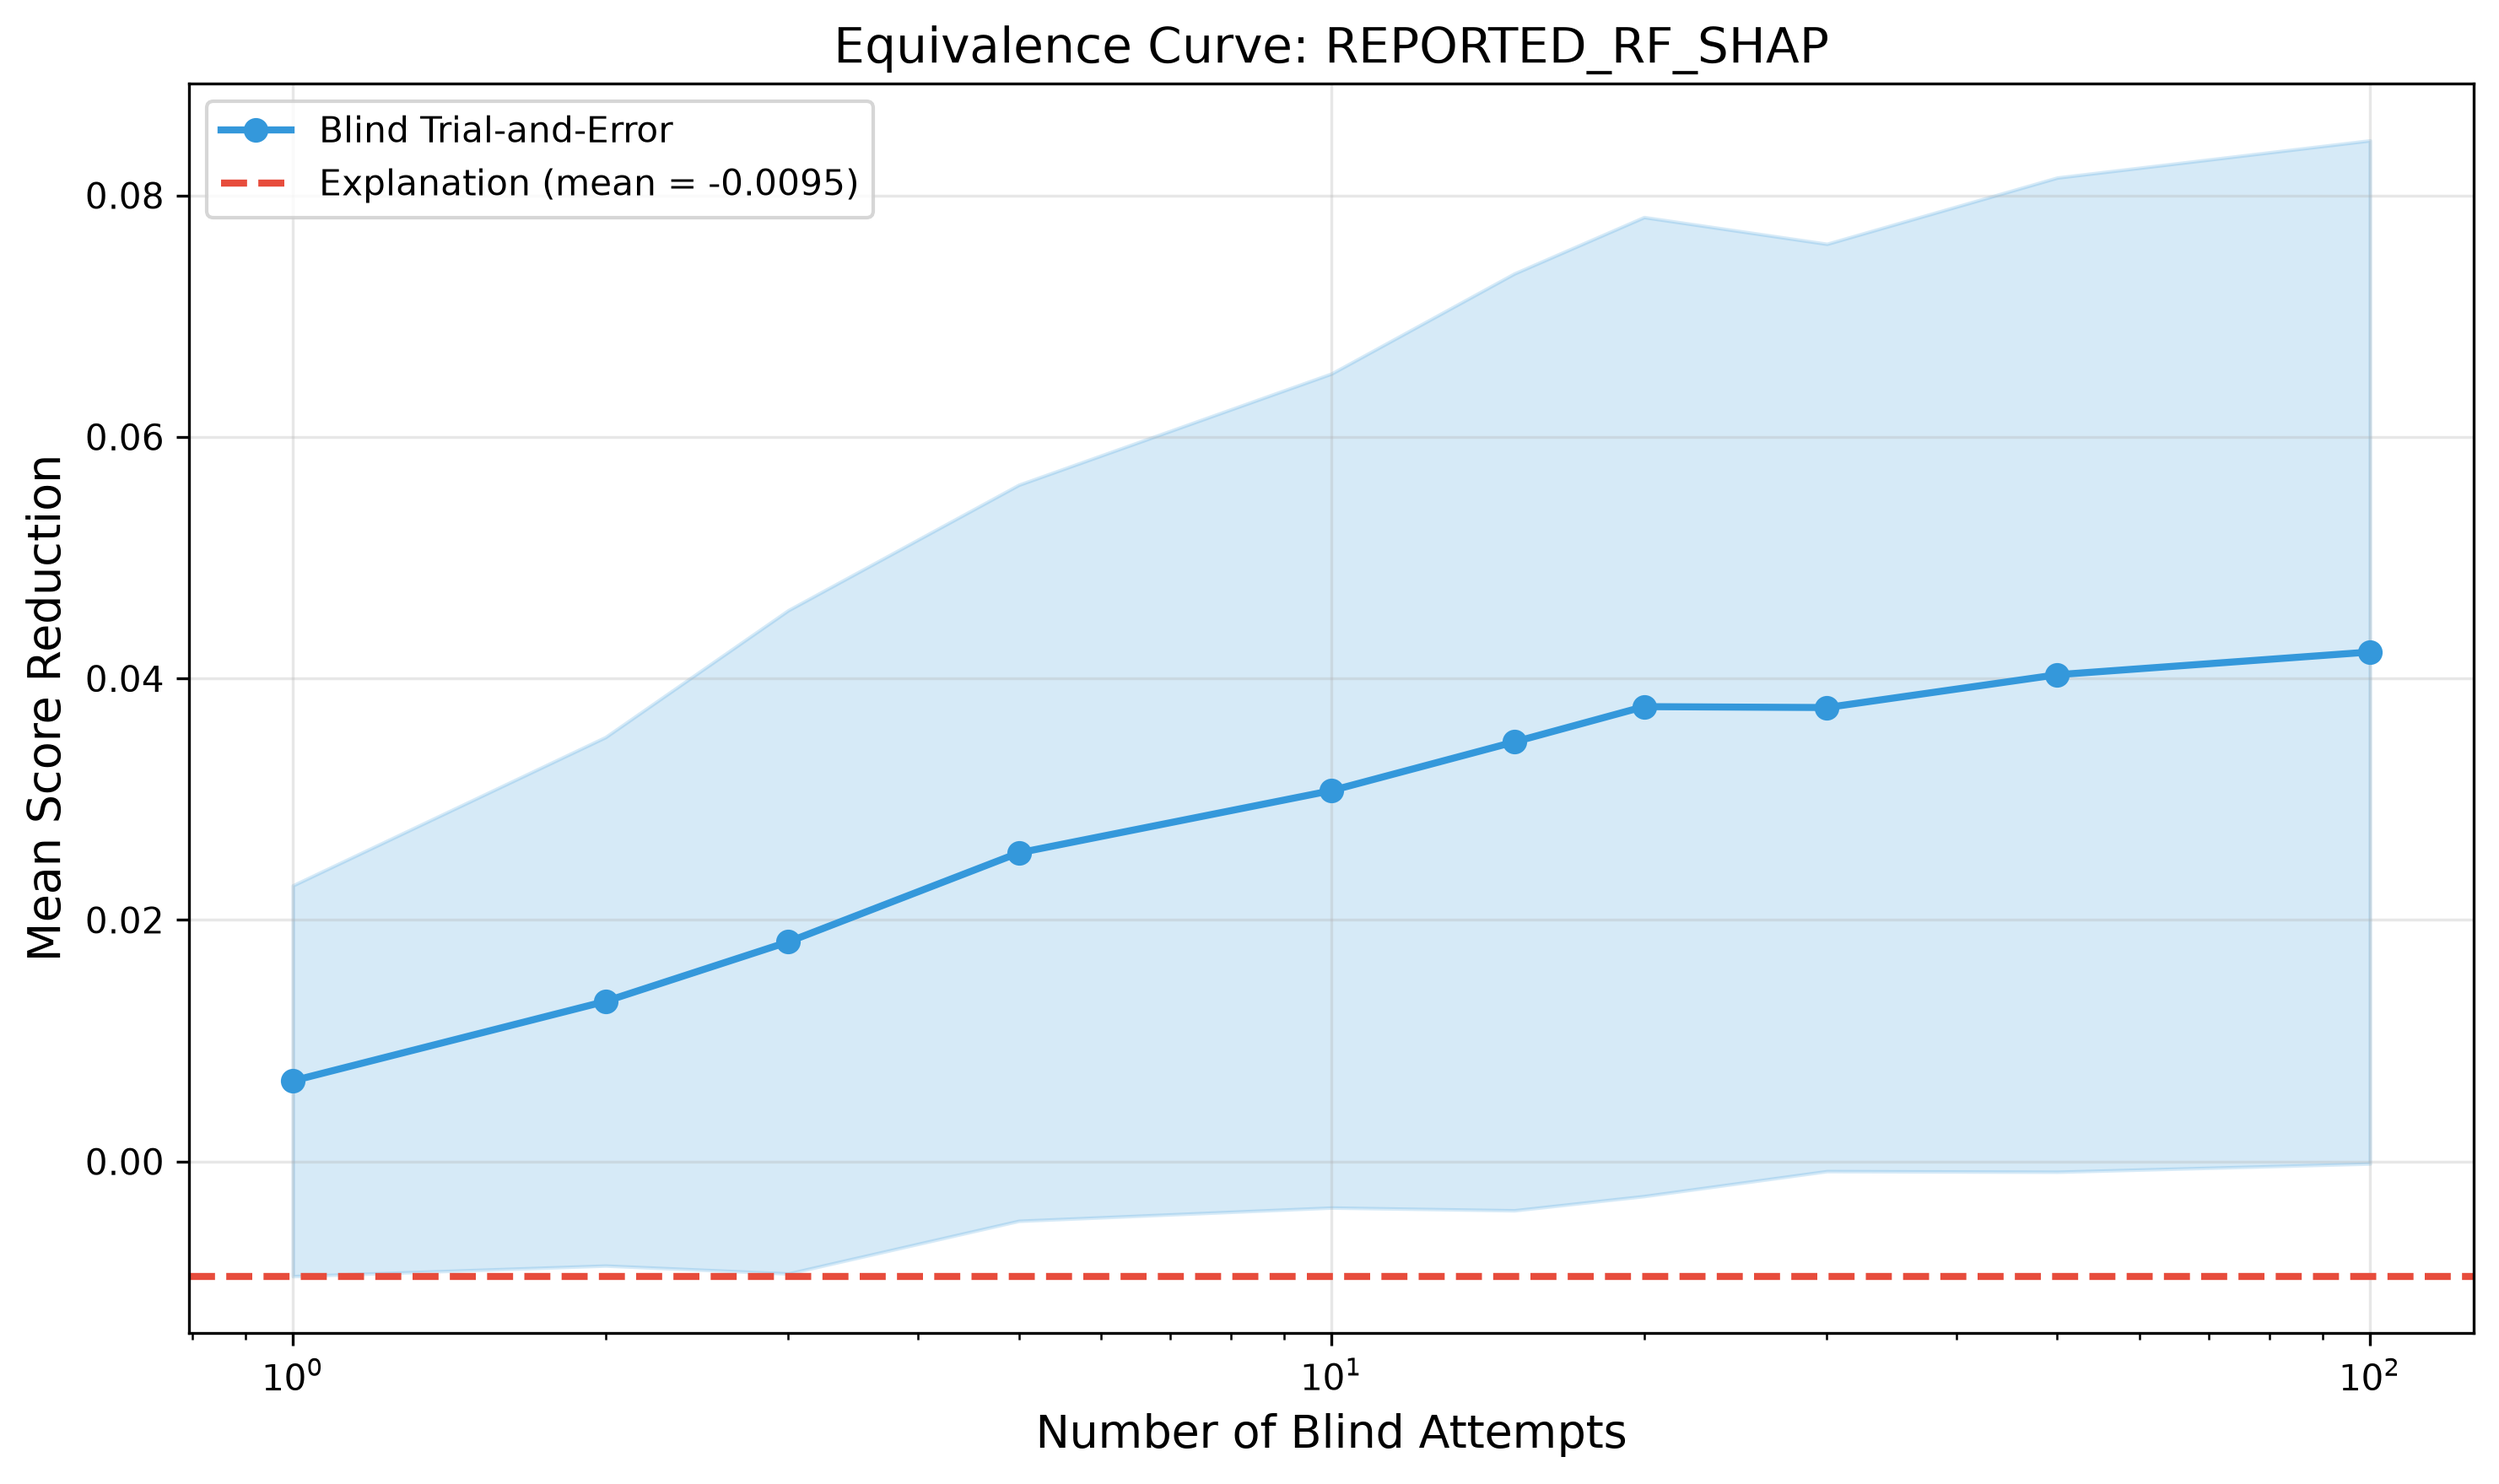
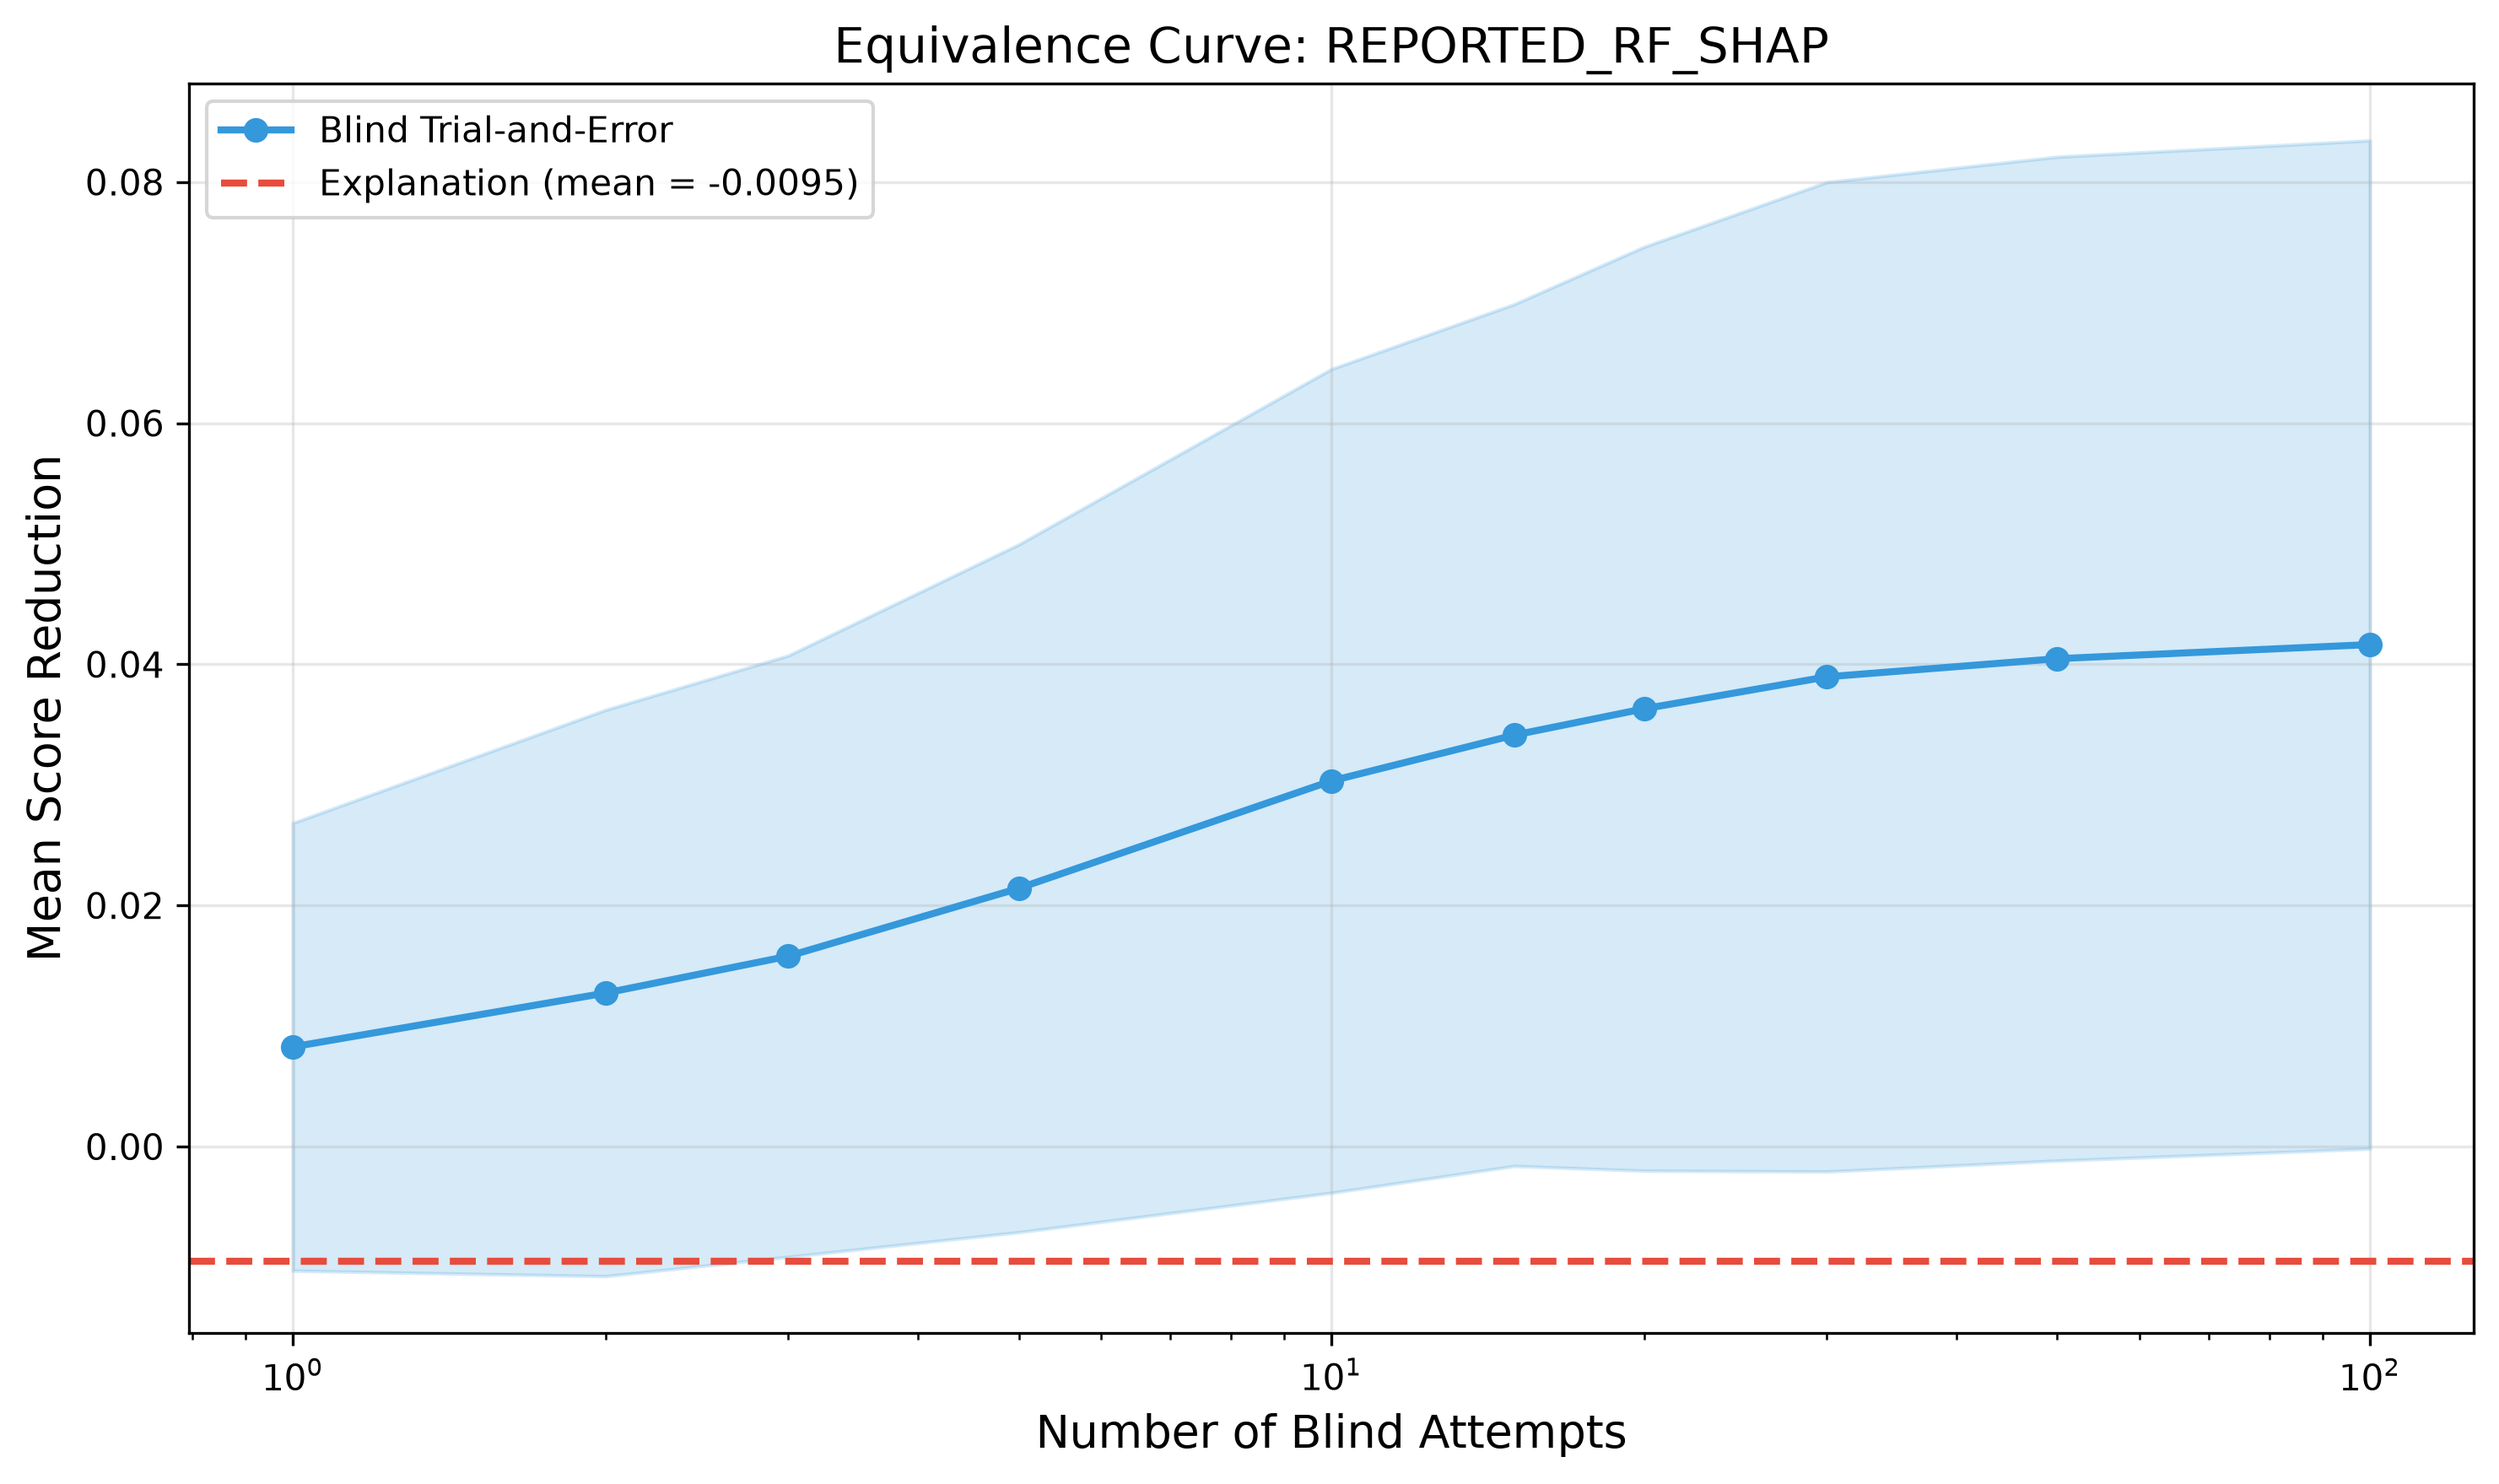
Stage 6 complete: review_stage6.py all-pass, git tag v0.1-preregistration locked

diff --git a/scripts/review_stage6.py b/scripts/review_stage6.py
@@ -41,7 +41,7 @@ if os.path.exists("docs/analysis_plan.md"):
         "Has 7 features listed":        "RIDAGEYR" in plan and "self_height_cm" in plan,
         "Has all 4 models":             "measured_rf" in plan and "reported_lr" in plan,
         "Has SHAP + LIME":              "SHAP" in plan and "LIME" in plan,
-        "Has blind_attack definition":  "blind" in plan.lower() and "N attempts" in plan,
+        "Has blind_attack definition":  "blind_attack_multi_n" in plan or "N attempts" in plan or "sequential" in plan,
         "Has primary metric N*":        "N*" in plan or "N\\*" in plan,
         "Has statistical tests":        "Wilcoxon" in plan and "bootstrap" in plan.lower(),
         "Has trial numbers":            "9.5" in plan,
